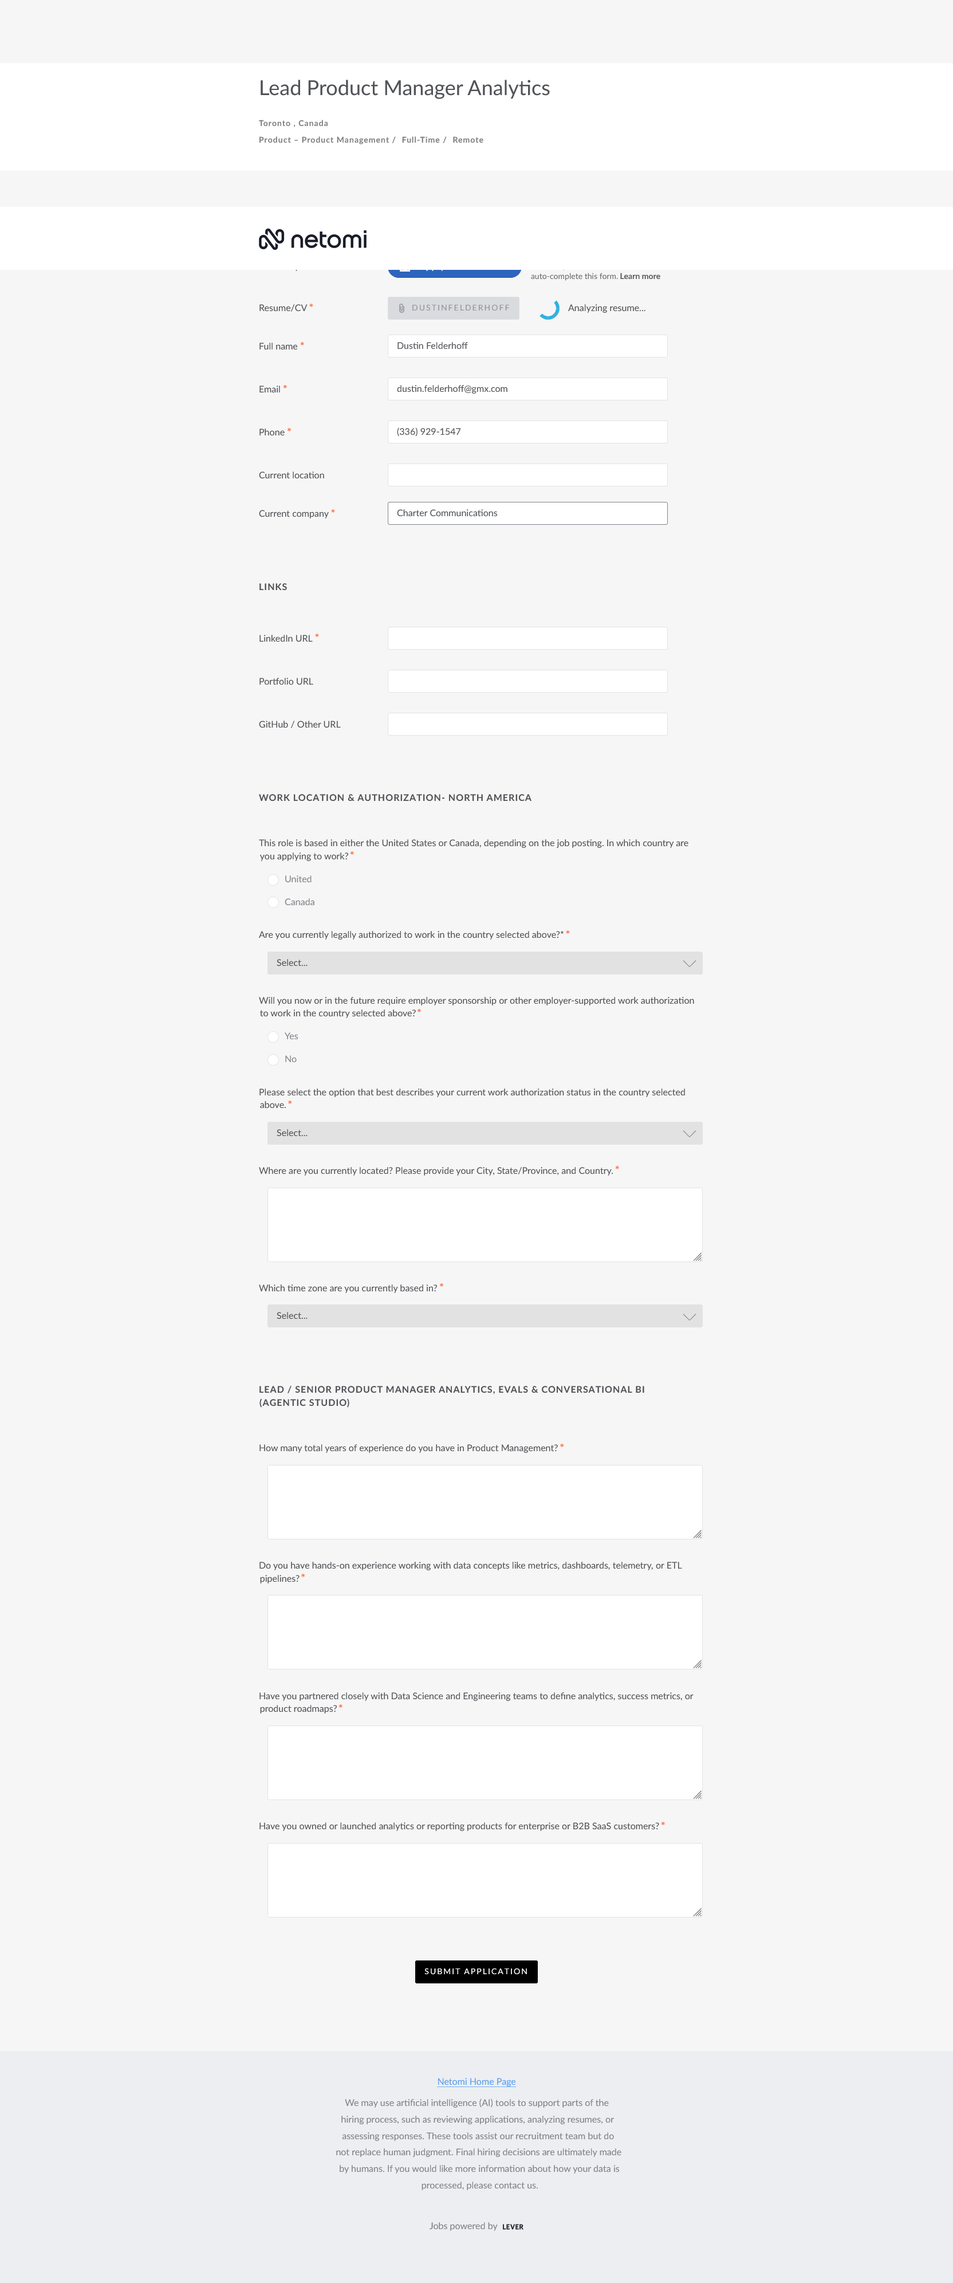
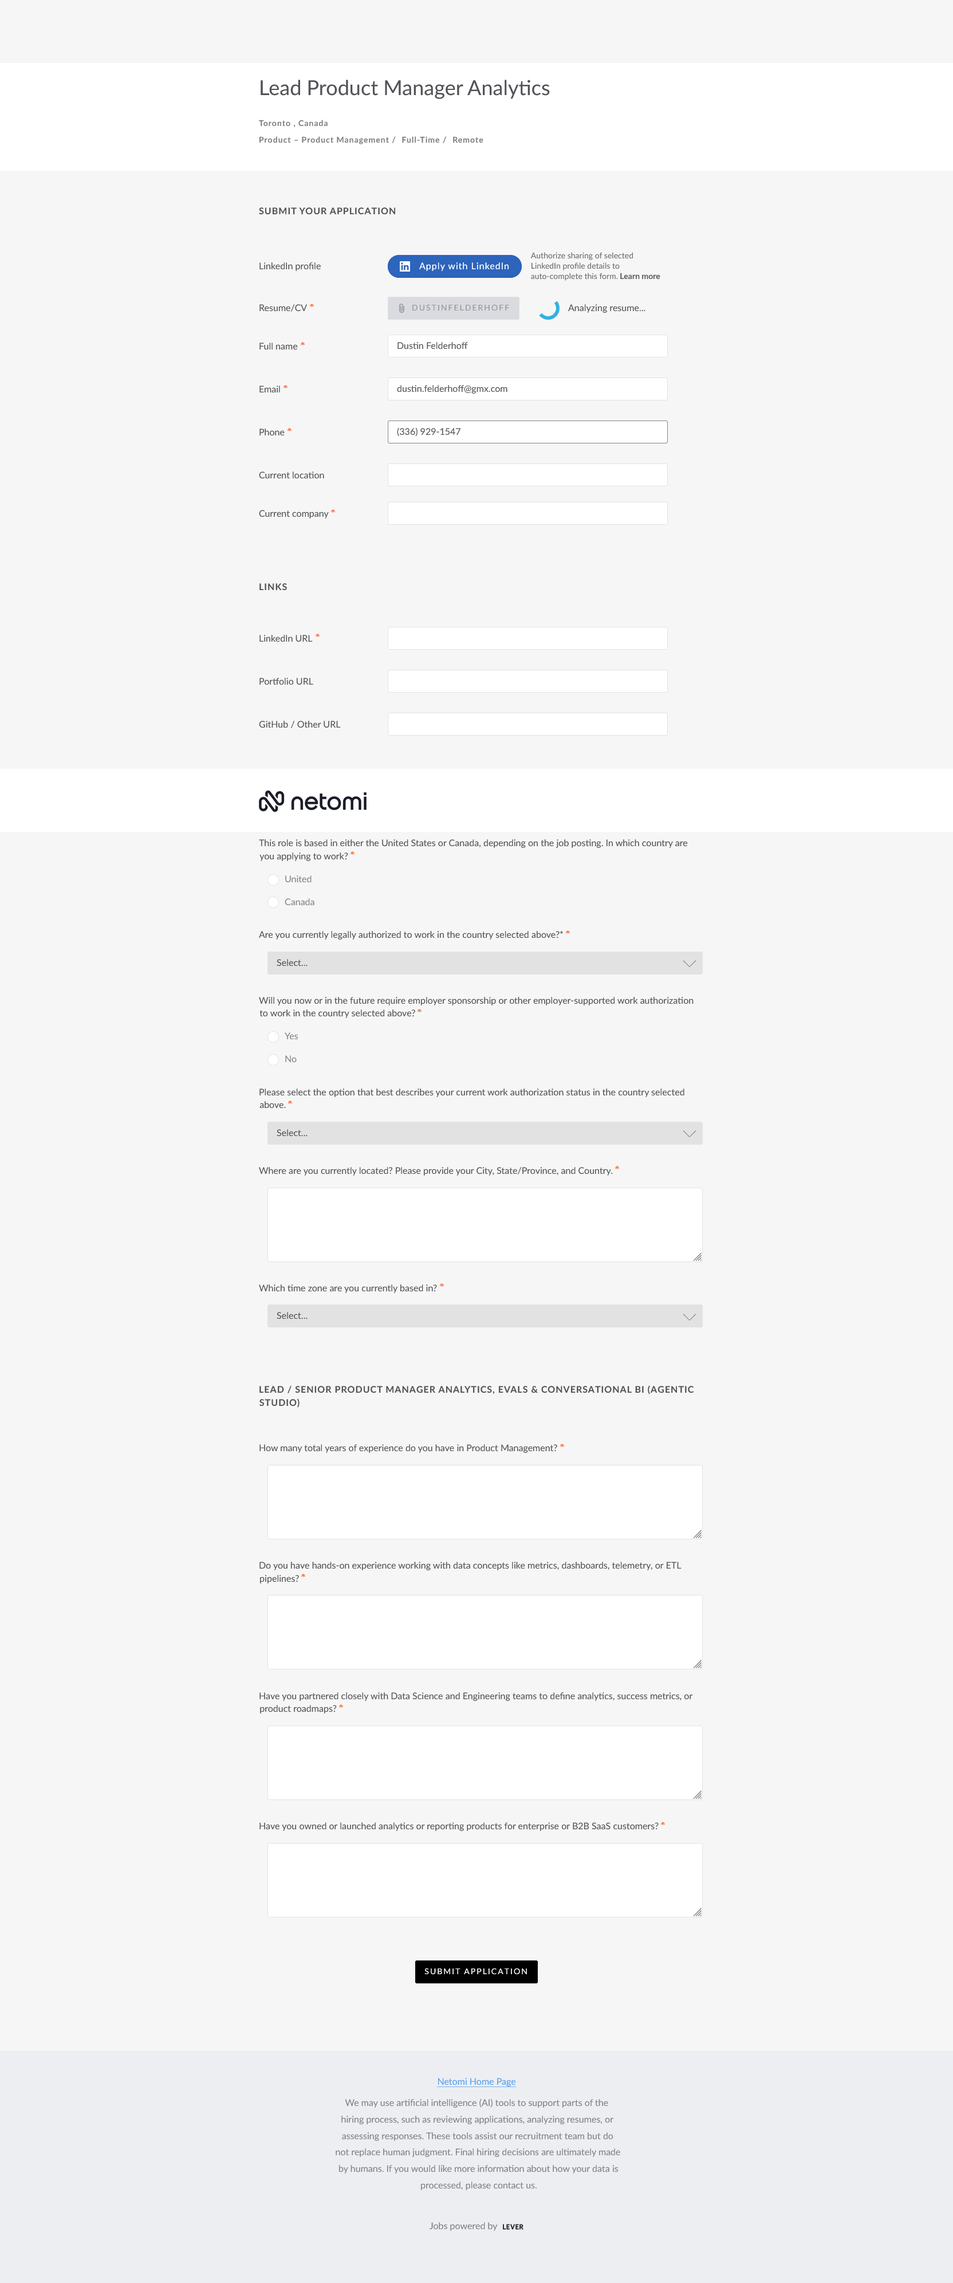
update dashboard

diff --git a/apply/job-dashboard.html b/apply/job-dashboard.html
@@ -68,7 +68,7 @@ a:hover{text-decoration:underline}
 <div id="dashboard" style="display:none">
 <header>
   <h1>Job-Application Monitor</h1>
-  <div class="sub">Auto-apply pipeline · generated 2026-08-31 18:30  · data: jobs.db + analytics.db + filled-form captures</div>
+  <div class="sub">Auto-apply pipeline · generated 2026-08-31 19:00  · data: jobs.db + analytics.db + filled-form captures</div>
 </header>
 <div class="wrap">
   <section class="card"><h2>Summary</h2><div class="grid"><div class="metric"><div class="label">Applied</div><div class="value">22</div></div><div class="metric"><div class="label">Interviews</div><div class="value">4</div></div><div class="metric"><div class="label">Interview requested</div><div class="value">0</div></div><div class="metric"><div class="label">Interview rate</div><div class="value">18.2%</div></div><div class="metric"><div class="label">Velocity</div><div class="value">3.1 apps/wk</div></div><div class="metric"><div class="label">Ready to apply</div><div class="value">217</div></div><div class="metric"><div class="label">Fillable (ATS)</div><div class="value">151</div></div><div class="metric"><div class="label">Has questions</div><div class="value">33</div></div></div></section>
@@ -85,7 +85,7 @@ a:hover{text-decoration:underline}
     </tr></thead>
     <tbody><tr><td class='company'>Contentsquare</td><td>Contentsquare - Senior Product Manager, User &amp; Lifecycle Analytics</td><td>2026-08-28</td><td class='src'>Tavily search</td><td class='num'>75</td><td><span class='badge badge-gray'>questions_extracted</span></td><td><span class='badge badge-gray'>No</span></td><td class='num'>56</td><td class='num'>80</td><td>2026-08-28</td><td class='proof'><a class="proof-online" href="proof/job2032.png" target="_blank" rel="noopener">View proof (online)</a><br><small class="muted">PNG committed online; PDF + audit local</small><br><small class="muted">captured 2026-08-31 11:04</small></td><td class='num'><span style="color:#dc2626;font-weight:600" title="5/19 fields filled (4.5 required-weighted pts / 13.0 possible)">35</span></td><td class='num'><span style="color:#d97706;font-weight:600" title="8 identity field(s) assessed, 3 matched, 5.5 pts/8.0 · email:match; phone:match; location:empty(0.5); linkedin:match; portfolio:empty(0.5); portfolio:empty(0.5); portfolio:empty(0.5); location:empty(0.5)">69</span></td><td class='num'><span class="na" title="no free-form written answer captured/assessed">N/A</span></td><td class='num'>80</td></tr>
 <tr><td class='company'>Twilio</td><td>Staff Product Manager</td><td>2026-08-27</td><td class='src'>ATS 2h scan · job_source_ats_2h</td><td class='num'>100</td><td><span class='badge badge-gray'>questions_extracted</span></td><td><span class='badge badge-gray'>No</span></td><td class='num'>63</td><td class='num'>92</td><td>2026-08-26</td><td class='proof'><span class="na">—</span></td><td class='num'><span class="na" title="no data">N/A</span></td><td class='num'><span class="na" title="no data">N/A</span></td><td class='num'><span class="na" title="no data">N/A</span></td><td class='num'>92</td></tr>
-<tr><td class='company'>Maven Clinic</td><td>VP of Product, Healthcare</td><td>2026-08-27</td><td class='src'>Daily scan · job_source_daily_scan</td><td class='num'>95</td><td><span class='badge badge-gray'>questions_extracted</span></td><td><span class='badge badge-gray'>No</span></td><td class='num'>58</td><td class='num'>74</td><td>2026-06-18</td><td class='proof'><span class="na">—</span></td><td class='num'><span class="na" title="no data">N/A</span></td><td class='num'><span class="na" title="no data">N/A</span></td><td class='num'><span class="na" title="no data">N/A</span></td><td class='num'>74</td></tr>
+<tr><td class='company'>Maven Clinic</td><td>VP of Product, Healthcare</td><td>2026-08-27</td><td class='src'>Daily scan · job_source_daily_scan</td><td class='num'>95</td><td><span class='badge badge-gray'>questions_extracted</span></td><td><span class='badge badge-gray'>No</span></td><td class='num'>76</td><td class='num'>74</td><td>2026-06-18</td><td class='proof'><a class="proof-online" href="proof/job1989.png" target="_blank" rel="noopener">View proof (online)</a><br><small class="muted">PNG committed online; PDF + audit local</small><br><small class="muted">captured 2026-08-31 18:34</small></td><td class='num'><span style="color:#dc2626;font-weight:600" title="5/14 fields filled (5.0 required-weighted pts / 14.0 possible)">36</span></td><td class='num'><span style="color:#d97706;font-weight:600" title="7 identity field(s) assessed, 5 matched, 6.0 pts/7.0 · first_name:match; last_name:match; email:match; phone:match; location:match; linkedin:empty(0.5); location:empty(0.5)">86</span></td><td class='num'><span class="na" title="no free-form written answer captured/assessed">N/A</span></td><td class='num'>74</td></tr>
 <tr><td class='company'>Maven Clinic</td><td>Senior Staff Product Manager, Member &amp; AI Experience</td><td>2026-08-27</td><td class='src'>Daily scan · job_source_daily_scan</td><td class='num'>95</td><td><span class='badge badge-gray'>questions_extracted</span></td><td><span class='badge badge-gray'>No</span></td><td class='num'>58</td><td class='num'>73</td><td>2026-06-18</td><td class='proof'><span class="na">—</span></td><td class='num'><span class="na" title="no data">N/A</span></td><td class='num'><span class="na" title="no data">N/A</span></td><td class='num'><span class="na" title="no data">N/A</span></td><td class='num'>73</td></tr>
 <tr><td class='company'>Maven Clinic</td><td>Senior Staff Product Manager, Fertility &amp; Family Building</td><td>2026-08-27</td><td class='src'>Daily scan · job_source_daily_scan</td><td class='num'>95</td><td><span class='badge badge-gray'>questions_extracted</span></td><td><span class='badge badge-gray'>No</span></td><td class='num'>56</td><td class='num'>73</td><td>2026-06-18</td><td class='proof'><a class="proof-online" href="proof/job1981.png" target="_blank" rel="noopener">View proof (online)</a><br><small class="muted">PNG committed online; PDF + audit local</small><br><small class="muted">captured 2026-08-31 03:04</small></td><td class='num'><span style="color:#dc2626;font-weight:600" title="5/14 fields filled (5.0 required-weighted pts / 14.0 possible)">36</span></td><td class='num'><span style="color:#d97706;font-weight:600" title="7 identity field(s) assessed, 5 matched, 6.0 pts/7.0 · first_name:match; last_name:match; email:match; phone:match; location:match; linkedin:empty(0.5); location:empty(0.5)">86</span></td><td class='num'><span class="na" title="no free-form written answer captured/assessed">N/A</span></td><td class='num'>73</td></tr>
 <tr><td class='company'>Maven Clinic</td><td>Group Product Manager, Client Services</td><td>2026-08-27</td><td class='src'>Daily scan · job_source_daily_scan</td><td class='num'>95</td><td><span class='badge badge-gray'>questions_extracted</span></td><td><span class='badge badge-gray'>No</span></td><td class='num'>58</td><td class='num'>71</td><td>2026-06-18</td><td class='proof'><span class="na">—</span></td><td class='num'><span class="na" title="no data">N/A</span></td><td class='num'><span class="na" title="no data">N/A</span></td><td class='num'><span class="na" title="no data">N/A</span></td><td class='num'>71</td></tr>
@@ -129,7 +129,7 @@ a:hover{text-decoration:underline}
 <tr><td class='company'>Sugarcrm</td><td>SugarAI - Product Manager</td><td>2026-07-16</td><td class='src'>Tavily search</td><td class='num'>52</td><td><span class='badge badge-red'>closed</span></td><td><span class='badge badge-gray'>No</span></td><td class='num'>60</td><td class='num'>80</td><td>2026-07-16</td><td class='proof'><span class="na">—</span></td><td class='num'><span class="na" title="no data">N/A</span></td><td class='num'><span class="na" title="no data">N/A</span></td><td class='num'><span class="na" title="no data">N/A</span></td><td class='num'>80</td></tr>
 <tr><td class='company'>Heartbeathealth</td><td>Heartbeat Health - Senior Product Manager, Data and Analytics</td><td>2026-07-16</td><td class='src'>Tavily search</td><td class='num'>62</td><td><span class='badge badge-amber'>ready_to_apply</span></td><td><span class='badge badge-gray'>No</span></td><td class='num'>79</td><td class='num'>80</td><td>2026-07-16</td><td class='proof'><a class="proof-online" href="proof/job1399.png" target="_blank" rel="noopener">View proof (online)</a><br><small class="muted">PNG committed online; PDF + audit local</small><br><small class="muted">captured 2026-08-31 08:34</small></td><td class='num'><span style="color:#dc2626;font-weight:600" title="5/13 fields filled (3.5 required-weighted pts / 7.5 possible)">47</span></td><td class='num'><span style="color:#d97706;font-weight:600" title="7 identity field(s) assessed, 3 matched, 5.0 pts/7.0 · email:match; phone:match; location:empty(0.5); linkedin:match; portfolio:empty(0.5); portfolio:empty(0.5); portfolio:empty(0.5)">71</span></td><td class='num'><span class="na" title="no free-form written answer captured/assessed">N/A</span></td><td class='num'>80</td></tr>
 <tr><td class='company'>Starrez</td><td>Senior Product Manager, Payments</td><td>2026-07-15</td><td class='src'>Tavily search</td><td class='num'>52</td><td><span class='badge badge-red'>closed</span></td><td><span class='badge badge-gray'>No</span></td><td class='num'>60</td><td class='num'>80</td><td>2026-07-15</td><td class='proof'><span class="na">—</span></td><td class='num'><span class="na" title="no data">N/A</span></td><td class='num'><span class="na" title="no data">N/A</span></td><td class='num'><span class="na" title="no data">N/A</span></td><td class='num'>80</td></tr>
-<tr><td class='company'>Netomi</td><td>Netomi - Lead Product Manager Analytics</td><td>2026-07-15</td><td class='src'>Tavily search</td><td class='num'>62</td><td><span class='badge badge-amber'>ready_to_apply</span></td><td><span class='badge badge-gray'>No</span></td><td class='num'>78</td><td class='num'>80</td><td>2026-07-15</td><td class='proof'><a class="proof-online" href="proof/job1389.png" target="_blank" rel="noopener">View proof (online)</a><br><small class="muted">PNG committed online; PDF + audit local</small><br><small class="muted">captured 2026-08-31 17:35</small></td><td class='num'><span style="color:#dc2626;font-weight:600" title="4/20 fields filled (4.0 required-weighted pts / 18.5 possible)">22</span></td><td class='num'><span style="color:#d97706;font-weight:600" title="7 identity field(s) assessed, 2 matched, 4.5 pts/7.0 · email:match; phone:match; location:empty(0.5); linkedin:empty(0.5); portfolio:empty(0.5); location:empty(0.5); phone:empty(0.5)">64</span></td><td class='num'><span class="na" title="no free-form written answer captured/assessed">N/A</span></td><td class='num'>80</td></tr>
+<tr><td class='company'>Netomi</td><td>Netomi - Lead Product Manager Analytics</td><td>2026-07-15</td><td class='src'>Tavily search</td><td class='num'>62</td><td><span class='badge badge-amber'>ready_to_apply</span></td><td><span class='badge badge-gray'>No</span></td><td class='num'>76</td><td class='num'>80</td><td>2026-07-15</td><td class='proof'><a class="proof-online" href="proof/job1389.png" target="_blank" rel="noopener">View proof (online)</a><br><small class="muted">PNG committed online; PDF + audit local</small><br><small class="muted">captured 2026-08-31 18:38</small></td><td class='num'><span style="color:#dc2626;font-weight:600" title="3/20 fields filled (3.0 required-weighted pts / 18.5 possible)">16</span></td><td class='num'><span style="color:#d97706;font-weight:600" title="7 identity field(s) assessed, 2 matched, 4.5 pts/7.0 · email:match; phone:match; location:empty(0.5); linkedin:empty(0.5); portfolio:empty(0.5); location:empty(0.5); phone:empty(0.5)">64</span></td><td class='num'><span class="na" title="no free-form written answer captured/assessed">N/A</span></td><td class='num'>80</td></tr>
 <tr><td class='company'>Sekai</td><td>AI Product Manager (Remote)</td><td>2026-07-13</td><td class='src'>Tavily search</td><td class='num'>62</td><td><span class='badge badge-amber'>ready_to_apply</span></td><td><span class='badge badge-gray'>No</span></td><td class='num'>74</td><td class='num'>80</td><td>2026-07-13</td><td class='proof'><a class="proof-online" href="proof/job1314.png" target="_blank" rel="noopener">View proof (online)</a><br><small class="muted">PNG committed online; PDF + audit local</small><br><small class="muted">captured 2026-08-31 09:04</small></td><td class='num'><span style="color:#dc2626;font-weight:600" title="2/13 fields filled (2.0 required-weighted pts / 9.5 possible)">21</span></td><td class='num'><span style="color:#d97706;font-weight:600" title="3 identity field(s) assessed, 1 matched, 2.0 pts/3.0 · email:match; linkedin:empty(0.5); phone:empty(0.5)">67</span></td><td class='num'><span style="color:#d97706;font-weight:600" title="4457 chars of free-form answer text assessed">85</span></td><td class='num'>80</td></tr>
 <tr><td class='company'>Zeely</td><td>Growth Product Manager</td><td>2026-07-08</td><td class='src'>Tavily search</td><td class='num'>62</td><td><span class='badge badge-red'>rejected</span></td><td><span class='badge badge-gray'>No</span></td><td class='num'><span class="na" title="Not attempted — no application on file">—</span></td><td class='num'>80</td><td>2026-07-08</td><td class='proof'><span class="na">—</span></td><td class='num'><span class="na" title="no data">N/A</span></td><td class='num'><span class="na" title="no data">N/A</span></td><td class='num'><span class="na" title="no data">N/A</span></td><td class='num'>80</td></tr>
 <tr><td class='company'>brightwheel</td><td>Staff Product Manager Brightwheel</td><td>2026-07-07</td><td class='src'>Caitlin shared</td><td class='num'>47</td><td><span class='badge badge-red'>rejected</span></td><td><span class='badge badge-gray'>No</span></td><td class='num'><span class="na" title="Not attempted — no application on file">—</span></td><td class='num'>80</td><td>2026-07-07</td><td class='proof'><span class="na">—</span></td><td class='num'><span class="na" title="no data">N/A</span></td><td class='num'><span class="na" title="no data">N/A</span></td><td class='num'><span class="na" title="no data">N/A</span></td><td class='num'>80</td></tr>
@@ -162,18 +162,18 @@ a:hover{text-decoration:underline}
 <tr><td class='company'>RevenueCat</td><td>Senior Product Manager, Analytics &amp; Experiments</td><td>—</td><td class='src'>Recovered (rebuild)</td><td class='num'><span class="na" title="Unknown / indeterminate discovery source (e.g. recovered job) - no score fabricated">-</span></td><td><span class='badge badge-red'>rejected</span></td><td><span class='badge badge-gray'>No</span></td><td class='num'>58</td><td class='num'>70</td><td>2026-06-29</td><td class='proof'><span class="na">—</span></td><td class='num'><span class="na" title="no data">N/A</span></td><td class='num'><span class="na" title="no data">N/A</span></td><td class='num'><span class="na" title="no data">N/A</span></td><td class='num'>70</td></tr></tbody>
     </table></div>
   </section>
-  <section class="card"><h2>Recent activity</h2><div class='act-row'><span class='badge badge-gray'>verify_questions</span> <strong>Contentsquare</strong> <span class='muted'>Contentsquare - Senior Product Manager, User &amp; Lifecycle Analytics</span> — ok <span class='muted pull'>2026-09-01 00:30</span></div>
-<div class='act-row'><span class='badge badge-gray'>verify_questions</span> <strong>Sourcegraph</strong> <span class='muted'>Sollicitatie voor Product Manager [IC4] bij Sourcegraph</span> — ok <span class='muted pull'>2026-09-01 00:30</span></div>
-<div class='act-row'><span class='badge badge-gray'>verify_questions</span> <strong>Maven Clinic</strong> <span class='muted'>Senior Staff Product Manager, Fertility &amp; Family Building</span> — ok <span class='muted pull'>2026-09-01 00:29</span></div>
-<div class='act-row'><span class='badge badge-gray'>verify_questions</span> <strong>Ibotta</strong> <span class='muted'>Staff Salesforce Engineer</span> — ok <span class='muted pull'>2026-09-01 00:29</span></div>
-<div class='act-row'><span class='badge badge-gray'>verify_questions</span> <strong>Ibotta</strong> <span class='muted'>Staff Decision Scientist</span> — ok <span class='muted pull'>2026-09-01 00:29</span></div>
-<div class='act-row'><span class='badge badge-gray'>verify_questions</span> <strong>Ibotta</strong> <span class='muted'>Staff Data Scientist, Client Data &amp; Measurement</span> — ok <span class='muted pull'>2026-09-01 00:29</span></div>
-<div class='act-row'><span class='badge badge-gray'>verify_questions</span> <strong>Ibotta</strong> <span class='muted'>Senior Sales Operations Analyst</span> — ok <span class='muted pull'>2026-09-01 00:28</span></div>
-<div class='act-row'><span class='badge badge-gray'>verify_questions</span> <strong>Ibotta</strong> <span class='muted'>Senior Manager, Consumer Marketing</span> — ok <span class='muted pull'>2026-09-01 00:28</span></div>
-<div class='act-row'><span class='badge badge-gray'>verify_questions</span> <strong>Ibotta</strong> <span class='muted'>Principal Machine Learning Engineer</span> — ok <span class='muted pull'>2026-09-01 00:28</span></div>
-<div class='act-row'><span class='badge badge-gray'>verify_questions</span> <strong>Ibotta</strong> <span class='muted'>Marketing Project Manager</span> — ok <span class='muted pull'>2026-09-01 00:28</span></div>
-<div class='act-row'><span class='badge badge-gray'>verify_questions</span> <strong>Ibotta</strong> <span class='muted'>Manager, Data Science</span> — ok <span class='muted pull'>2026-09-01 00:27</span></div>
-<div class='act-row'><span class='badge badge-gray'>verify_questions</span> <strong>Ibotta</strong> <span class='muted'>Director, Engineering</span> — ok <span class='muted pull'>2026-09-01 00:27</span></div></section>
+  <section class="card"><h2>Recent activity</h2><div class='act-row'><span class='badge badge-gray'>form_capture</span> <strong>Netomi</strong> <span class='muted'>Netomi - Lead Product Manager Analytics</span> — captured <span class='muted pull'>2026-09-01 00:38</span></div>
+<div class='act-row'><span class='badge badge-gray'>application_complete</span> <strong>Netomi</strong> <span class='muted'>Netomi - Lead Product Manager Analytics</span> — partial <span class='muted pull'>2026-09-01 00:38</span></div>
+<div class='act-row'><span class='badge badge-gray'>form_capture</span> <strong>Netomi</strong> <span class='muted'>Netomi - Lead Product Manager Analytics</span> — partial <span class='muted pull'>2026-09-01 00:36</span></div>
+<div class='act-row'><span class='badge badge-gray'>application_complete</span> <strong>Netomi</strong> <span class='muted'>Netomi - Lead Product Manager Analytics</span> — partial <span class='muted pull'>2026-09-01 00:36</span></div>
+<div class='act-row'><span class='badge badge-gray'>prefill_launch</span> <strong>Netomi</strong> <span class='muted'>Netomi - Lead Product Manager Analytics</span> — ok <span class='muted pull'>2026-09-01 00:34</span></div>
+<div class='act-row'><span class='badge badge-gray'>application_attempt</span> <strong>Netomi</strong> <span class='muted'>Netomi - Lead Product Manager Analytics</span> — in_progress <span class='muted pull'>2026-09-01 00:34</span></div>
+<div class='act-row'><span class='badge badge-gray'>practice_fill</span> <strong>Maven Clinic</strong> <span class='muted'>VP of Product, Healthcare</span> — captured <span class='muted pull'>2026-09-01 00:34</span></div>
+<div class='act-row'><span class='badge badge-gray'>application_complete</span> <strong>Maven Clinic</strong> <span class='muted'>VP of Product, Healthcare</span> — partial <span class='muted pull'>2026-09-01 00:34</span></div>
+<div class='act-row'><span class='badge badge-gray'>prefill_launch</span> <strong>Netomi</strong> <span class='muted'>Netomi - Lead Product Manager Analytics</span> — ok <span class='muted pull'>2026-09-01 00:33</span></div>
+<div class='act-row'><span class='badge badge-gray'>application_attempt</span> <strong>Netomi</strong> <span class='muted'>Netomi - Lead Product Manager Analytics</span> — in_progress <span class='muted pull'>2026-09-01 00:33</span></div>
+<div class='act-row'><span class='badge badge-gray'>tick_summary</span> <strong>#1</strong> <span class='muted'></span> — ok <span class='muted pull'>2026-09-01 00:30</span></div>
+<div class='act-row'><span class='badge badge-gray'>practice_fill</span> <strong>Maven Clinic</strong> <span class='muted'>VP of Product, Healthcare</span> — in_progress <span class='muted pull'>2026-09-01 00:30</span></div></section>
   <p class="pager">Built by scripts/build_public_dashboard.py · proof captures are local files; only small PNGs are copied to the repo for online viewing.</p>
 </div>
 </div>
